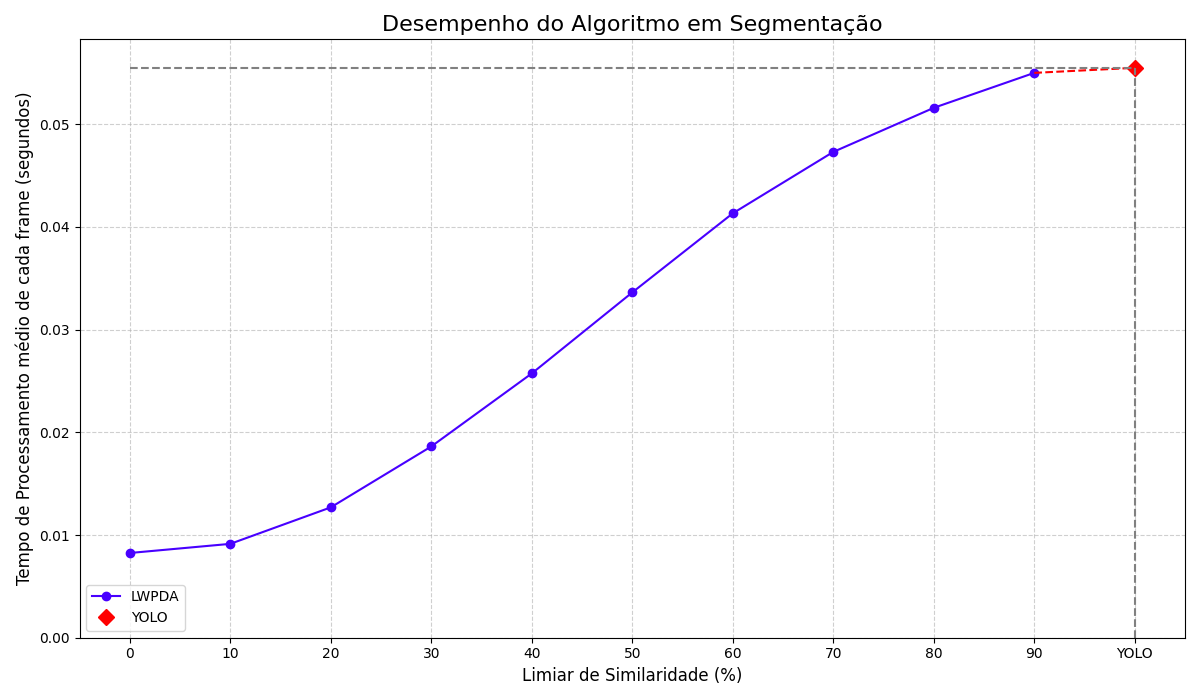
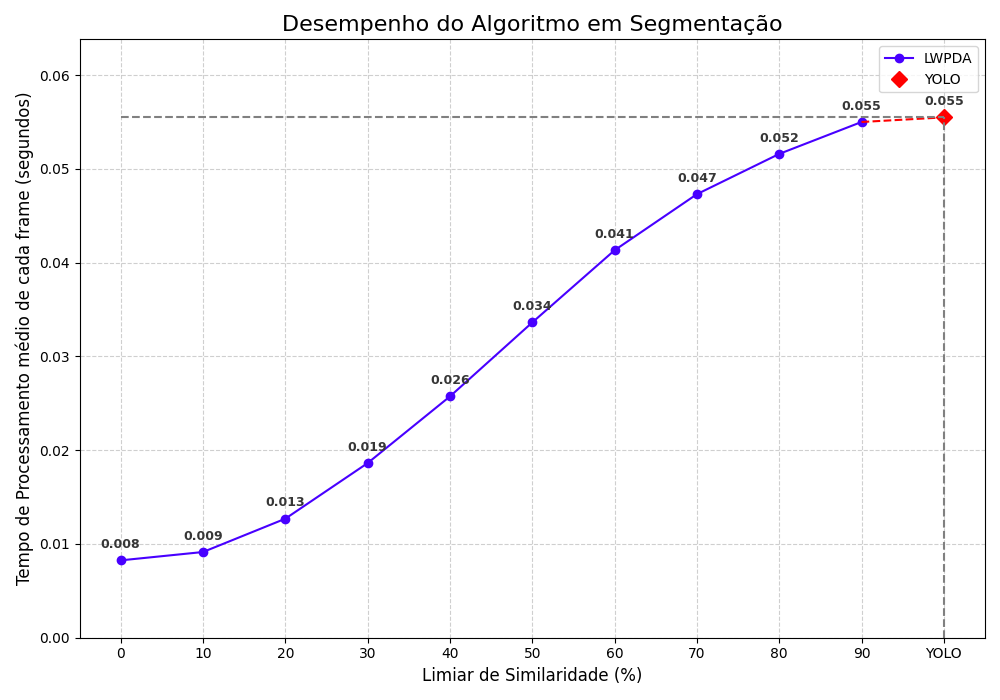
Updating graphics

diff --git a/graphs/frameTime.py b/graphs/frameTime.py
@@ -39,7 +39,7 @@ for exp_nome in NOMES_EXPERIMENTOS:
             print(f"Erro ao ler o arquivo {arquivo_path}: {e}")
     if tempos:
         dados_por_experimento[exp_nome] = tempos
-        print(f"Experimento '{exp_nome}': {len(tempos)} medições coletadas.")
+        print(f"Experimento '{exp_nome}': {len(tempos)} medições de tempo coletadas.")
 
 # ==============================================================================
 # --- 3. GERAÇÃO DOS GRÁFICOS ---
@@ -54,21 +54,20 @@ else:
     medias = [np.mean(tempos) if tempos else 0 for tempos in data_sorted]
     desvios_padrao = [np.std(tempos) if tempos else 0 for tempos in data_sorted]
     
-    # --- GRÁFICO 1: LÓGICA FINAL E CORRETA ---
+    # --- GRÁFICO 1: VERSÃO FINAL COM RÓTULOS DE DADOS ---
     
     medias_algoritmo = medias[:-1]
     media_yolo = medias[-1]
     
-    fig_linha, ax_linha = plt.subplots(figsize=(12, 7))
+    fig_linha, ax_linha = plt.subplots(figsize=(10, 7))
 
     cor_lwpda = '#4800FF'
     cor_yolo = 'red'
 
     # 1. Plota a linha e os marcadores de círculo AZUIS de 0% a 90%.
-    #    O ponto de 90% terá o marcador de círculo aqui.
     ax_linha.plot(LABELS_BASE, medias_algoritmo, color=cor_lwpda, linestyle='-', marker='o', label='LWPDA')
 
-    # 2. Plota APENAS A LINHA tracejada VERMELHA de 90% a YOLO (sem marcadores).
+    # 2. Plota APENAS A LINHA tracejada VERMELHA de 90% a YOLO.
     ultimo_segmento_x = [len(LABELS_BASE) - 1, len(LABELS_BASE)]
     ultimo_segmento_y = [medias_algoritmo[-1], media_yolo]
     ax_linha.plot(ultimo_segmento_x, ultimo_segmento_y, color=cor_yolo, linestyle='--')
@@ -81,6 +80,24 @@ else:
     # 4. Adiciona as linhas de projeção para o ponto YOLO.
     ax_linha.plot([x_yolo_pos, x_yolo_pos], [0, y_yolo_pos], color='gray', linestyle='--')
     ax_linha.plot([0, x_yolo_pos], [y_yolo_pos, y_yolo_pos], color='gray', linestyle='--')
+    
+    # --- NOVO: 5. Adiciona os rótulos de texto com os valores em cada ponto ---
+    # Itera sobre TODOS os pontos (0% a 90% e YOLO), usando a lista 'medias' completa.
+    for i, media in enumerate(medias):
+        # Formata o texto para 3 casas decimais (ex: 0.055)
+        texto_label = f'{media:.3f}'
+        
+        # Adiciona o texto um pouco acima do ponto no gráfico
+        ax_linha.text(
+            x=i,                          # Posição X (o índice do ponto)
+            y=media + 0.001,              # Posição Y (o valor + um pequeno deslocamento para cima)
+            s=texto_label,                # O texto a ser exibido
+            ha='center',                  # Alinhamento horizontal centralizado
+            va='bottom',                  # Alinhamento vertical na base do texto
+            fontsize=9,                   # Tamanho da fonte
+            fontweight='bold',            # Deixa o texto em negrito para melhor leitura
+            color='#363636'               # Cor cinza escuro
+        )
 
     # Configuração final do gráfico
     ax_linha.set_title('Desempenho do Algoritmo em Segmentação', fontsize=16)
@@ -90,13 +107,13 @@ else:
     ax_linha.set_xticklabels(LABELS_COM_YOLO)
     ax_linha.grid(True, linestyle='--', alpha=0.6)
     ax_linha.legend()
-    ax_linha.set_ylim(bottom=0)
+    ax_linha.set_ylim(bottom=0, top=max(medias) * 1.15) # Aumenta um pouco o limite superior para o texto caber
     plt.tight_layout()
     plt.savefig('/home/hugo/Desktop/LWPDA/graphs/segmentation/frame/linha_tempos_medios_com_yolo.png')
     print("Gráfico 1/6 'linha_tempos_medios_com_yolo.png' salvo com sucesso!")
 
     # --- DEMAIS GRÁFICOS (permanecem inalterados) ---
-    # (O código para os outros 5 gráficos continua aqui...)
+    # ... (código para os outros 5 gráficos) ...
 
     # ==============================================================================
     # --- 4. EXIBIÇÃO DOS VALORES MÉDIOS ---
